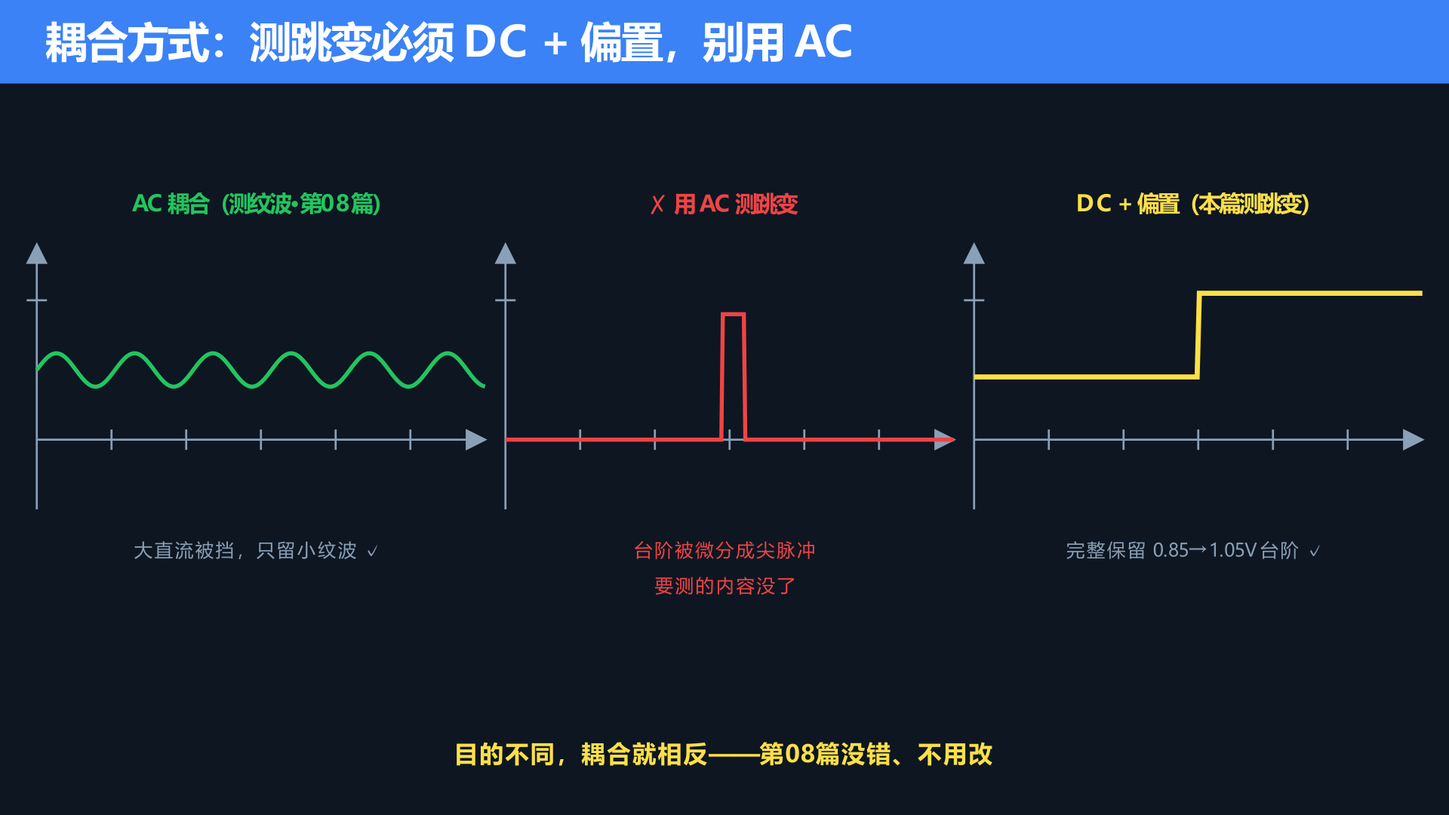
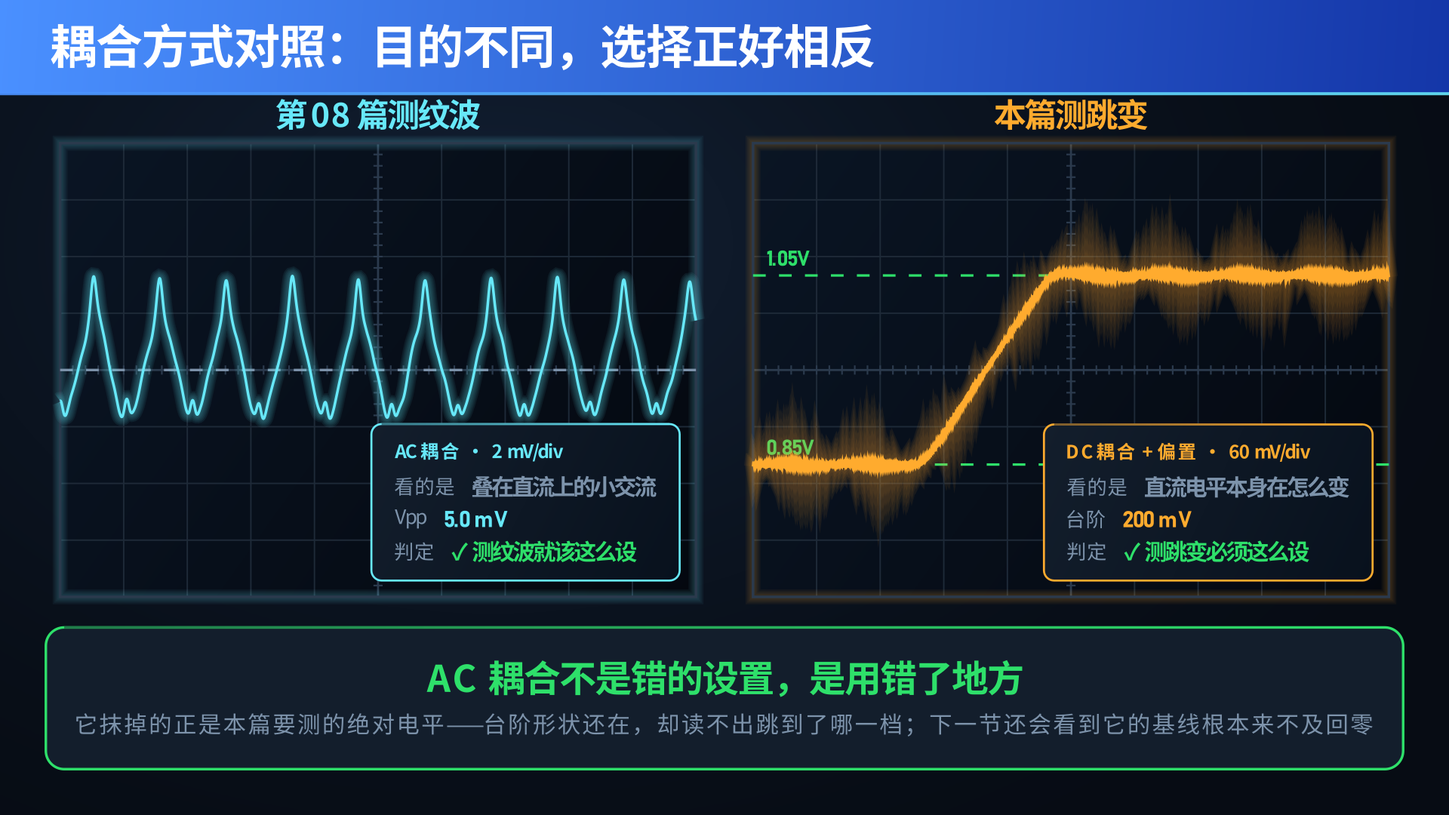
同步 PI深化01：正文改用 24 张 v3 配图，修正 AC 耦合表述
Copilot-Session: 146125e5-149c-4b5e-aded-743cd7f5dc29

Changed region(s): [[0.0, 0.0, 1.0, 0.9472], [0.0938, 0.2139, 0.2812, 0.275], [0.3438, 0.3056, 0.375, 0.3361]]

diff --git a/articles/pi01.md b/articles/pi01.md
@@ -5,7 +5,7 @@ outline: [2,3]
 
 # 同一颗 CPU，核心电压每秒跳几百次——你还按 1.0V±3% 测纹波，测的是一个根本不存在的工作点
 
-<div class="article-meta"><span class="badge">📘 模块二 · 电源完整性 PI · 深化篇 · 动态调压 AVS/DVS</span><span class="badge">⏱ 约 29 分钟</span><span class="badge qr">🔧 含工程师速查</span></div>
+<div class="article-meta"><span class="badge">📘 模块二 · 电源完整性 PI · 深化篇 · 动态调压 AVS/DVS</span><span class="badge">⏱ 约 43 分钟</span><span class="badge qr">🔧 含工程师速查</span></div>
 
 
 一位工程师接手一块笔记本主板，测 CPU 核心轨 **VCORE** 的纹波和精度。他按 datasheet 上写的"**0.85V**"设好判据，示波器一挂，**傻眼了**：这条轨的电压根本不老实待在 0.85V——一会儿窜到 **1.05V**，一会儿又掉到 **0.6V**，来回跳，像心电图。
@@ -24,6 +24,7 @@ outline: [2,3]
 - ✅ 电压**跳变那一下**要测的四件事——**建立时间、过冲/下冲、受控压摆率、逐 OPP 静态精度**，判据怎么定；
 - ✅ 最容易漏的**压频协调时序**——为什么"升频要先加电压、降频要先降频再降电压"，错了就死机；
 - ✅ 怎么测——**轨探头 DC 耦合 + 偏置** 配 **总线命令解码触发**，同屏抓"命令→跳变→稳定"三段（以及为什么这里**不能像测纹波那样用 AC 耦合**）；
+- ✅ **反过来：这条一直在跳的轨上，纹波和噪声还怎么测**——门控窗口、按百分比逐档的判据、20 MHz 限带、AC 耦合基线回不到零、轻载 PFM 纹波反而更大，五道坎逐个拆；
 - ✅ 这套动态调压比普通定压电源，**多出了哪些普通 IC 根本没有的测试项**。
 
 ---
@@ -38,9 +39,13 @@ outline: [2,3]
 - 摸鱼（低频）→ 跳到低 OPP：**低频 + 低电压**，省功耗；
 - 完全空闲 → 更低的档甚至进 retention（保持态）。
 
+![图1a：为什么核心电压必须动起来。动态功耗 P ≈ C·V²·f 三个因子并排，电压 V 被高亮成平方项——同样降一半，频率省一半功耗，电压能省到四分之一](/images/pi01/ill01a_power.png)
+
+![图1b：OPP 工作点是"频率 + 最低够用电压"打包成档。三张档位卡 P-turbo 4.2GHz/1.05V、P-nom 2.4GHz/0.85V、P-idle 0.8GHz/0.60V，右侧给出按 V²·f 折算的相对功耗 100% / 37% / 6%](/images/pi01/ill01b_opp.png)
+
 系统（OS 的 governor / 芯片内的功耗管理）根据负载**每秒切换几百上千次 OPP**。所以 VCORE 在示波器上看就是**一串高低不等的电压台阶，随负载来回跳**——这不是故障，这是它**正常的工作方式**。
 
-![图1：破除"电压是定值"——上排：普通定压电源，VCORE 一条平线 0.85V±3%，测纹波/精度就够；下排：现代 CPU 核心，VCORE 是随负载在 0.6V / 0.85V / 1.05V 等 OPP 档位之间不停跳的阶梯波形，标注"每秒跳几百次"。红框圈出跳变沿，标注"真正要测的是这一下"](/images/pi01/ill01_dynamic.png)
+![图1c：VCORE 的真实样子——示波器上一串随负载来回跳的电压台阶，在 1.05V / 0.85V / 0.60V 三档之间切换，屏内标注每一次跳变沿"真正要测的是这一下"](/images/pi01/ill01c_wave.png)
 
 > **一句话记住：现代 CPU/SoC 核心电压是随频率实时调的动态变量（DVS/AVS），在一串 OPP 档位间每秒跳几百次。拿"一个定值±3%"去测，测的是一个不存在的工作点——真正要测的是"跳变过程"本身。**
 
@@ -66,6 +71,8 @@ outline: [2,3]
 - 接令的是**多相 VRM 控制器**（板上一颗独立芯片，带一堆 DrMOS 功率级），它把 VCORE 调到 CPU 要的电压。
 - SVID 是 **3 线**（SCLK 时钟 / SDATA 数据 / ALERT），开漏，速率不高（**≤ 26.25MHz** 量级），除了发 SetVID 改压，还能用 GetReg 反过来读电流、温度等遥测。
 
+![图3a：x86 调压链——CPU 算好 VID → 经 SVID / SVI 串行总线 → 板上多相 VRM 控制器 → DrMOS 功率级 → VCORE，并标出示波器 CH1 挂电容端测电压、CH2 挂总线抓命令帧的两个探测点](/images/pi01/ill03a_x86.png)
+
 **高通骁龙 PC 平台**：
 - 调压命令走 **SPMI**（System Power Management Interface，MIPI 标准的 **2 线** 总线：SCLK + 双向 SDATA），也可由片内 **RPMh**（Resource Power Manager-hardened，一个硬件资源管理框架）统一下发。
 - 接令并真正把电压调出来的是 **PMIC**（电源管理芯片），由它设 CPU 子系统（APC）的电压。
@@ -73,7 +80,7 @@ outline: [2,3]
 
 两套方案的对照，是本篇最该记住的一张表：
 
-![图3：两平台调压链对照。上路 x86：CPU →(SVID/SVI 串行总线)→ 多相 VRM 控制器 → VCORE；下路 高通骁龙 PC：功耗管理 →(SPMI / RPMh)→ PMIC → APC(CPU)电压。右侧大字标注：命令通道不同，但 PI 关注点完全一致——都要测跳变的建立时间/过冲/压摆率/顺序](/images/pi01/ill03_two_platform.png)
+![图3b：高通骁龙 PC 调压链——功耗管理 / RPMh → SPMI（MIPI 2 线）→ PMIC → APC(CPU) 电压，下方一行列出六项 PI 判据，强调通道和执行芯片都不同，要测的却一模一样](/images/pi01/ill03b_qc.png)
 
 | | x86（Intel / AMD） | 高通骁龙 PC |
 |---|---|---|
@@ -91,13 +98,15 @@ outline: [2,3]
 
 上面说的 DVS 是**开环**的：查一张"频率→电压"表，给一个固定电压。但这张表是**出厂按最差情况定的**——为了保证每一颗芯片、在最高温、最老化的极端条件下都不出错，表里的电压会**多留一截余量**，这截余量叫 **guardband（护带）**。大多数芯片、大多数时候根本用不上这截余量，等于**白白多耗电**。
 
+![图4a：guardband 是怎么白喝掉的。26 颗硅片实测临界电压散布成一片点云，均值 0.791V，而查表电压按最差条件定在 0.920V，中间 129mV 的橙色面积就是 guardband——按 V² 折算等于多耗约 35% 功耗](/images/pi01/ill04a_guardband.png)
+
 **闭环 AVS 就是来省这截余量的。** 以高通的 **CPR** 为例：芯片内部埋了**传感器**（监视关键路径的实际速度），实时测"这块硅片在当前温度/工艺/电压下到底够不够快"，然后**动态地把电压压到刚好够用的最低点**，再经 RPMh 下发给调节器。硅片好、温度低，就少给点；硅片差、温度高，就多给点——**因材施电**，比开环那张"一刀切留足余量"的表省得多。
 
 这里有个特别容易写错、也容易讲反的点，务必记牢：
 
 > ⚠ **CPR / 闭环 AVS 的目标是"给刚好够用的最低电压"，不是"追求最高电压"。** 它是往下压（省电），压到"再压就要出错"的临界点上方一点点为止。
 
-![图4：闭环 AVS(CPR) 原理。左：开环 DVS——查表给固定电压，顶上留一大截 guardband 余量(灰色阴影，标"白耗电")。右：闭环 AVS——片内传感器实时测硅片够不够快，把电压压到"临界点 + 一点点安全裕量"，省掉大部分 guardband(绿色箭头向下"省电")。底部注：目标是最低够用电压，不是最高](/images/pi01/ill04_cpr.png)
+![图4b：闭环 AVS（以高通 CPR 为例）——片内关键路径传感器实时测硅片够不够快 → CPR 控制器 → RPMh → PMIC → APC 电压，并有一条反馈线回到传感器形成闭环；结论标注"目标是把电压往下压到刚好够用，不是往上加"](/images/pi01/ill04b_cpr.png)
 
 ---
 
@@ -107,13 +116,17 @@ outline: [2,3]
 
 **① 电压跳变建立时间（settling time）。** 从收到调压命令、电压开始变，到**稳定进入新电压的容差带内**（业内常用进入 **±2%** 判定），要多久。典型是 **µs 级**。这件事是**生死线**：如果系统要升频，电压却还没稳到高档就把频率拉上去，芯片在"高频 + 不够的电压"下必然算错——**直接死机**。所以建立时间必须**赶在频率切换之前**完成。
 
+![图5a：跳变四件事之一——建立时间。示波器屏上 0.85V→1.05V 一次跳变，标出命令沿、±2% 容差带上下限，以及从命令沿到波形稳定落进容差带的建立时间 21 µs](/images/pi01/ill05a_tset.png)
+
 **② 跳变过冲 / 下冲（overshoot / undershoot）。** 升压时电压容易先冲过头再回落（过冲），降压时容易先掉过头（下冲）。过冲不能越过芯片的**绝对最大电压（abs-max）**，否则会打穿；下冲不能掉破**最低工作电压**，否则同样算错。
+
+![图5b：跳变四件事之二——过冲。同一次跳变用两种压摆率对照：10 mV/µs 过冲 2.5 mV，200 mV/µs 过冲 18.2 mV，摆率快 20 倍过冲大 7 倍，后者已顶到 abs-max 红线](/images/pi01/ill05b_ovs.png)
 
 **③ 受控压摆率（slew rate，V/µs）。** 电压变化的斜率，由 PMIC/VRM 按命令设定。**太快** → 过冲大、冲击应力大；**太慢** → 建立时间不够、误了换频时序。所以它是被"**控制**"的，要验它是否落在设定范围。
 
 **④ 逐 OPP 静态精度。** 每一个电压档，落点准不准。VID/DAC 的步进通常是 **5mV 或 10mV** 一档（如 Intel VR13：5mV 或 10mV/step），要**逐档**验落点，不能只测一个档。
 
-![图5：跳变一下的四个考点(放大一个电压 step)。横轴时间、纵轴电压。标注：①settling time(从命令到进入±2%带)②overshoot(升压顶部尖峰,不得越 abs-max 红线)③slew rate(上升斜率 V/µs)④目标档落点精度(DAC 5/10mV)。左侧竖排"命令沿"](/images/pi01/ill05_step.png)
+![图5c：跳变四件事之三、四——受控压摆率与逐档静态精度。屏上量出实际上升斜率，右侧判据卡列出摆率窗口与各 OPP 档落点精度（VID/DAC 5mV 或 10mV 步进）要逐档验](/images/pi01/ill05c_slew.png)
 
 把这四件事和 OPP 交叉，判据就**从"一行固定限值"变成了一张矩阵**——这是动态调压和普通定压电源在"判据形态"上最根本的区别。下面用一个**自制示例**（零涉密，数值仅示意）把这张矩阵**填满**，让你看清它实际长什么样：
 
@@ -171,26 +184,157 @@ outline: [2,3]
 
 这样一屏下来，你能直接量出：命令下达 → 电压开始动的延迟、建立时间、过冲、落点，全部对齐着看。
 
-![图8：怎么测(混合域同屏)。Ch1 电源轨探头(DC+偏置)测 VCORE 跳变波形；Ch2 数字探头挂 SVID/SPMI 总线，下方解码出命令帧"SetVID 0.85→1.05V"。竖虚线把画面分三段：命令 / 跳变 / 稳定。触发标在命令帧。右上标"带宽≥跳变5×"](/images/pi01/ill08_measure.png)
+![图8a：测法的灵魂——混合域同屏。上屏 CH1 电源轨探头（DC + 偏置）测 VCORE 的 0.85→1.05V 跳变，下屏 CH2 数字通道挂 SVID / SPMI 总线并解码出 SetVID 命令帧，两屏共用同一条时间轴，量出命令帧比电压先动 5.4 µs](/images/pi01/ill08a_mixed.png)
+
+![图8b：触发设在调压命令上，一屏抓下"命令 · 跳变 · 稳定"三段。屏内触发标记落在命令帧，三段用不同颜色色带分开，各段分别标出要读的量](/images/pi01/ill08b_trig.png)
 
 **关键点 2：必须 DC 耦合 + 轨探头偏置——这里千万别用 AC 耦合。**
 
 这点最容易和第 08 篇"测纹波"搞混，务必分清：
 
 - 第 08 篇测**纹波**：VCORE 是个大直流（比如 0.85V）上面叠着几 mV 的小交流。为了把小交流看清，用 **AC 耦合**把那 0.85V 的直流挡掉、放大交流——**08 这么做完全正确**。
-- 本篇测**跳变**：我们要测的**恰恰就是那个直流电平本身在怎么变**（从 0.85V 跳到 1.05V）。如果用 AC 耦合，它那个 ~10Hz 的高通特性会**把要测的直流台阶滤掉**，你看到的不再是一个干净的电压台阶，而是被微分成的尖脉冲——**测的东西全没了**。
+- 本篇测**跳变**：我们要测的**恰恰就是那个直流电平本身在怎么变**（从 0.85V 跳到 1.05V）。如果用 AC 耦合，它那个 ~10Hz 的高通会**把绝对电平整个抹掉**——台阶的形状还在，但你再也读不出它跳到了 0.85V 还是 1.05V，纵轴的零点没了。更糟的是它的时间常数约 **16 ms**，而 OPP 每几十到几百微秒就跳一次，**差了三个数量级**：基线根本来不及回零，屏幕中间那条线不是零电平，是上一次跳变留下的残余漂移，还会随跳变历史一路乱走。
 
 所以本篇必须用 **DC 耦合**，并用**专用有源电源轨探头**加 **DC 偏置**（把 0.85V 这个基准平移到屏幕中间，再用小量程高分辨率看跳变细节）。普通 10:1 无源探头噪声太大，不合格。
 
 > ⚠ **和第 08 篇不矛盾**：08 测"大直流上的小交流"→AC 耦合挡直流；本篇测"直流本身怎么动"→必须 DC 耦合 + 偏置。**目的不同，耦合方式就相反，08 本身没错、不用改。**
 
-![图9：耦合方式对照。左"AC 耦合(测纹波,第08篇)"：大直流被挡掉,只留小纹波,✓适合纹波。右"DC 耦合+轨探头偏置(本篇测跳变)"：完整保留 0.85→1.05V 的电压台阶,✓适合跳变。中间画一个反例:用 AC 耦合测跳变→台阶被微分成尖脉冲,✗"要测的内容被滤掉"](/images/pi01/ill09_coupling.png)
+![图9：耦合方式对照。左屏"AC 耦合（第 08 篇测纹波）"：直流被挡掉，只剩 5.0 mV 小交流，✓ 测纹波就该这么设。右屏"DC 耦合 + 轨探头偏置（本篇测跳变）"：0.85→1.05V 的 200 mV 台阶完整保留，✓ 测跳变必须这么设。结论条：AC 耦合不是错的设置，是用错了地方——它抹掉的正是本篇要测的绝对电平](/images/pi01/ill09_coupling.png)
 
 **测量小抄：** 示波器内置的 **Overshoot** 测过冲、**Settling Time**（进入 ±2%）测建立时间，直接读数；再配总线解码选件（SVID/SVI/SPMI），命令和波形就对齐了。
 
 ---
 
-## 七、和普通电源 IC 比，多出了哪些活
+## 七、反过来问：这条动态轨上，还能测纹波吗？
+
+上一节讲的是**测跳变**。但一条 VCORE 轨交到你手上，验收单上除了跳变，**还有纹波和噪声那一栏**——它不会因为这条轨在跳就自动免测。
+
+于是问题来了：**第 08 篇教的那套测纹波的办法，搬到动态轨上还成立吗？**
+
+答案是：**成立，但前提全变了**。第 08 篇的每一条设置，背后都默认"这条轨的直流电平是不动的"。这个前提一旦被打破，从窗口、判据、耦合到档位，**没有一项能直接照搬**。这一节把这五道坎一次讲清——这也是整个系列里，**稳态电源测试和动态电源测试差别最大的地方**。
+
+### 第一道坎：纹波的定义前提没了，必须先门控
+
+纹波的定义是"**输出直流电平上叠加的周期性交流分量**"。注意这个定义里藏着一句话：**得先有一个稳定的直流电平**，才谈得上"叠加在它上面的东西"。
+
+动态轨上没有这个前提。你把光标一拉、示波器 Vpp 一读，读到的是什么？
+
+**是那 200 mV 的 OPP 跳变幅度。** 纹波才几个 mV，被跳变整整压过一个数量级——测量窗口只要跨过一次跳变，读数就完全由跳变主导，跟纹波一点关系都没有。
+
+![图11：同一条动态轨，测量窗口放在不同位置。主屏全景 50mV/div，一次 0.85V→1.05V 跳变；窗口 A 跨了跳变段、窗口 B 落在 OPP 驻留段；两个放大小屏分别给出读数，差一个数量级](/images/pi01/ill11_ripple_window.png)
+
+所以动态轨测纹波的**第一条纪律**是：**先把测量窗口门控（gating）到单个 OPP 的驻留段里，再谈判据。**
+
+具体做法：
+
+- 用**总线命令解码**或电压边沿定位每一次跳变，把统计窗口设在**两次跳变之间的平台段**；
+- 窗口还要**避开建立过程**——跳变后的过冲和振铃属于"过冲/建立时间"的判据，**不能算进纹波**。稳妥的做法是从建立完成时刻再往后退一段，才开始统计；
+- 示波器上用**门控测量（gated measurement）**或分段存储，别用全屏 Vpp。
+
+> ⚠ **这一条不做，后面全白搭。** 跳变过冲被算进纹波统计，结果必然是"纹波严重超标"——然后你会去查一个根本不存在的电源问题。
+
+![图11b：门控规则示意。同一条动态轨上，跳变沿与建立过程所在的区间标成红色"不能统计"，两次跳变之间、且已退过建立过程的平台段标成绿色"才能统计"——统计窗口只准落在绿窗里](/images/pi01/ill12a_pct_rule.png)
+
+### 第二道坎：判据是百分比，低电压档反而最难过
+
+稳态轨的纹波判据常写成一个固定值，比如"≤ 20 mV"。动态轨不行——**同一条轨有好几个目标电压**，一个固定 mV 值套上去，各档的严格程度完全不同：
+
+- 20 mV 落在 **1.05V** 档上，是 **1.9%**；
+- 同样 20 mV 落在 **0.60V** 档上，就成了 **3.3%**。
+
+所以动态轨的纹波判据必须**按百分比逐档写**。而这里有个真正反直觉的地方——把一块典型的 6 相 VCORE VR（12V 输入、800 kHz、0.15 µH、2000 µF、1.2 mΩ ESR）逐档算一遍：
+
+| OPP 档 | 占空比 D | 电感电流纹波 ΔI_L | 实测 Vpp | **占标称电压** |
+|---|---|---|---|---|
+| 1.05 V | 0.0875 | 7.98 A | 5.0 mV | **0.475%** |
+| 0.85 V | 0.0708 | 6.58 A | 4.9 mV | **0.575%** |
+| 0.60 V | 0.0500 | 4.75 A | 4.2 mV | **0.700%** |
+
+看出来了吗：**绝对值几乎没变（5.0 → 4.2 mV），百分比却一路涨到 1.5 倍。** 硬件一点没动，只是电压档降下来了，纹波指标就自动变严。
+
+![图11c：三档纹波逐档对照条形图。1.05V 档 5.0 mV 占 0.475%、0.85V 档 4.9 mV 占 0.575%、0.60V 档 4.2 mV 占 0.700%——绝对值一路降，百分比却一路升，低电压档才是最难过的一关](/images/pi01/ill12b_pct_table.png)
+
+背后有两股力量在打架：电压降低 → 占空比 D 变小 → 电感电流纹波 ΔI_L 确实变小了；**但多相交错的抵消效果同时也在变差**（这块板 6 相的抵消系数 K 从 1.05V 档的 0.52 一路劣化到 0.60V 档的 0.74）。两者一抵，绝对纹波基本没降，而分母却小了不少。
+
+> **一句话记住：动态轨的纹波判据要按百分比逐档写，而且低电压档最难过——绝对纹波降不下去，分母却变小了。只测最高档就签字，等于把最难的一关跳过去了。**
+
+### 第三道坎：设置本身就在改读数
+
+这一坎稳态轨上也有，但动态轨上后果更严重——因为动态轨的纹波本来就小、余量本来就紧。
+
+VCORE 这种低压大电流轨，输出端除了开关纹波，还耦合着**开关节点打过来的高频尖峰**。这些尖峰频率在几十上百 MHz，**它不是纹波**，可它照样进你的 Vpp 读数。
+
+同一条波形，探头全带宽读一次、按标准打开 **20 MHz 限带**再读一次：
+
+![图12：同一条纹波波形，上屏全带宽 500MHz 读 18.7mV 判超标，下屏 20MHz 限带读 5.0mV 判合格，读数差 3.7 倍](/images/pi01/ill12_bw_limit.png)
+
+**18.7 mV 判超标，5.0 mV 判合格——同一块板，同一条波形，差 3.7 倍。**
+
+所以纹波测试的标准动作不是可选项：**AC 耦合 + 20 MHz 限带 + 短接地弹簧（别用长地线）**。这套动作不是为了让波形好看，是为了让**不同的人、不同的仪器，测同一块板子能得到可比的数字**。少做一样，你测出来的就是自己的设置，不是板子的性能。
+
+### 第四道坎：AC 耦合在动态轨上会骗你
+
+第 08 篇测纹波用 AC 耦合，天经地义——挡掉大直流，才好放大那几 mV。可搬到动态轨上，这一手会出事。
+
+示波器的 AC 耦合是个**约 10 Hz 的一阶高通**。算一下它的时间常数：
+
+**τ = 1 / (2π × 10 Hz) ≈ 16 ms**
+
+也就是说，被一个 200 mV 的电压台阶激励之后，基线要**大约 3τ ≈ 48 ms** 才能重新回到零。
+
+再看动态轨的节奏：OPP 切换是**几十到几百微秒**一次量级。
+
+**两个数字差了三个数量级。** 结论很硬：**在快速 DVFS 的轨上，AC 耦合的基线根本没机会回到零**——它一直挂在上一次跳变留下的漂移上晃。你以为屏幕中间那条线是零电平，其实那是残余的漂移，测出来的 Vpp 里混着它。
+
+![图12b：AC 耦合的恢复比 OPP 跳变慢三个数量级。屏上画出被一连串 OPP 跳变激励后的 AC 耦合基线：τ 约 16 ms、要 3τ 约 48 ms 才回零，而 OPP 每几百微秒就跳一次，基线一路被抬着走，从来没回到过零线](/images/pi01/ill12c_ac_tau.png)
+
+怎么办，三条路：
+
+1. **DC 耦合 + 轨探头偏置 + 小量程**（最稳）：直流被偏置抵消掉，没有高通，也就没有恢复问题；
+2. **仍用 AC 耦合，但把系统停在单一 OPP 上**（用 governor 锁频锁压），等基线彻底稳下来再测——这时它其实已经退化成一条稳态轨了；
+3. 硬要在跳变间隙里测，就必须**确认窗口起点离上一次跳变足够远**——按上面的数量级，这个条件在快速 DVFS 下基本满足不了。
+
+> ⚠ **第 08 篇没错，是前提变了。** 08 篇的 AC 耦合默认"直流不动"；动态轨上直流一直在动，这个默认就失效了。
+
+### 第五道坎：最反直觉的一条——轻载时纹波反而更大
+
+前面算过：低电压档的百分比判据最严。而低 OPP 档同时还意味着**负载电流也小**。这两件事凑到一起，会撞上一个让很多人翻车的现象。
+
+轻载时，为了保效率，VR 会**关掉大部分相、并从 PWM 连续导通切到 PFM / 跳周期（pulse-skipping）模式**。这时输出波形完全变了样：
+
+- 不再是规则的三角波，而是**一串脉冲之后长时间静默**，静默期间电压缓慢下垂；
+- 纹波的**频率不再固定**，随负载漂移，你的自动化脚本按 4.8 MHz 去找周期会找不到；
+- **峰峰值不降反升**——常见比重载时大上 2~4 倍。
+
+![图13：重载 CCM 与轻载 PFM 的波形对照。左：规则三角波，频率固定，峰峰值小；右：间歇脉冲群 + 静默期下垂，频率漂移，峰峰值反而更大](/images/pi01/ill13_pfm.png)
+
+还有一点要说清楚：**PFM 下的纹波幅度算不出来。** 重载 CCM 的纹波可以拿 LC 和 ESR 推（上面那张表就是这么来的），但 PFM 的纹波主要由**控制器的迟滞窗口**决定——那是芯片内部的设计参数，不在你的物料表上。**只能测。**
+
+于是低 OPP 档成了双重夹击：**百分比判据最严的那一档，恰好也是纹波形态最恶劣的那一档。** 只在满载高频档测纹波然后签字，漏掉的正是最容易出问题的工况。
+
+> **测试上的动作：纹波必须"每个 OPP × 轻载/重载"两维覆盖**，至少要补上"低 OPP + 轻载"这一格。
+
+### 一张表收尾：同一条轨，两套互斥的设置
+
+第六节测跳变、这一节测纹波，都在同一条 VCORE 上，但**设置几乎每一项都相反**——它们没法同时满足，只能分两轮测：
+
+![图14：同一条 VCORE 轨的两套测量设置对照，耦合、带宽、档位、时基、触发、统计窗口六项逐项相反](/images/pi01/ill14_two_setups.png)
+
+| 项 | 测**跳变**（第六节） | 测**纹波**（本节） |
+|---|---|---|
+| 耦合 | **DC + 轨探头偏置** | AC（稳态段）或 **DC + 偏置**（动态轨推荐） |
+| 带宽 | **全带宽**（≥ 跳变速度 5×） | **限带 20 MHz** |
+| 垂直档位 | 大档位，装得下 200 mV 台阶 | **小档位**，看得见几 mV |
+| 时基 | 宽（µs ~ 数十 µs/div） | **窄**（ns ~ 百 ns/div） |
+| 触发 | **总线调压命令帧** | 自由触发 / 开关频率 |
+| 统计窗口 | **对准跳变段** | **门控到驻留段，排除跳变与建立过程** |
+| 判据 | 过冲、建立时间、压摆率（绝对值） | **纹波百分比，逐 OPP** |
+
+> **一句话记住：同一条动态轨，测跳变和测纹波是两套互斥的设置——耦合、带宽、档位、时基、触发、统计窗口六项全反。想一次测完，两样都测不准。**
+
+---
+
+## 八、和普通电源 IC 比，多出了哪些活
 
 把动态调压和普通定压电源 IC（定压 DCDC/LDO，即正篇讲的那些）摆一起，你会发现它**打破了普通电源测试的一个默认假设**：电压是定值。假设一破，测试项、判据形态、仪器、失效模式全变了：
 
@@ -213,7 +357,7 @@ outline: [2,3]
 
 ---
 
-## 八、把一条动态轨的测试用例写出来（模板 + 实例）
+## 九、把一条动态轨的测试用例写出来（模板 + 实例）
 
 道理讲完，落到活儿上——**拿到一条 DVS 轨（比如 VCORE），怎么把它的测试用例写出来？** 给你一套可以直接套的流程和模板，这也是这一篇最该带走的东西。
 
@@ -234,6 +378,8 @@ outline: [2,3]
 | DVS-04 | 受控压摆率 | 触发一次跳变 | 轨探头，测斜率 | 落在 PMIC/VRM 设定带 |
 | DVS-05 | 压频协调时序 | 跑真实负载让系统自动切档 | 轨探头 + 总线解码 + 频率标志 | 升频先加压、降频先降频，顺序/间隔正确 |
 | DVS-06 | 遥测交叉核对（选做） | GetReg 读回电压/电流 | 总线解码 | 遥测值与实测一致 |
+| **DVS-07** | **逐 OPP 纹波（重载）** | 锁在每一档，加满载 | 轨探头，**AC/DC + 20MHz 限带**，**门控到驻留段** | **各档纹波百分比达标**（低档最严） |
+| **DVS-08** | **低 OPP + 轻载纹波（PFM）** | 锁最低档，卸载到轻载 | 同上，时基放宽以容纳脉冲群周期 | 峰峰值达标；**记录 PFM 形态与突发周期** |
 
 **第三步：确定接法和触发。** 电压轨探头 **DC 耦合 + 偏置**，数字探头挂调压总线开**解码**，**触发在总线调压命令**上；用可编程手段（cpufreq governor / 压测 / 厂商工具）**强制切 OPP** 制造跳变。
 
@@ -251,11 +397,16 @@ outline: [2,3]
 
 ---
 
-## 九、常见坑
+## 十、常见坑
 
 - **拿定压思路测动态轨**：把跳来跳去的 VCORE 当成"电源不稳/故障"，其实是它正常在跳 OPP。先搞清这条轨是不是 DVS 轨。
 - **只测一个电压档**：动态轨要**逐 OPP** 测过冲/建立时间/精度，只测一个档等于漏测大半。
-- **用 AC 耦合测跳变**：直流台阶被高通滤成尖脉冲，测的东西全没了（详见第六节，和第 08 篇目的不同）。
+- **用 AC 耦合测跳变**：绝对电平被整个抹掉，基线还会随跳变历史漂移，落点电压无从判读（详见第六节，和第 08 篇目的不同）。
+- **动态轨上直接读全屏 Vpp 当纹波**：读到的是 200 mV 的 OPP 跳变幅度，不是纹波。**必须先门控到单个 OPP 驻留段**，还要排除跳变后的建立过程（第七节）。
+- **纹波判据写成一个固定 mV 值**：动态轨要**按百分比逐档**写。同样 20 mV，在 1.05V 是 1.9%、在 0.6V 就是 3.3%——**低电压档最难过**，只测最高档等于跳过最难的一关。
+- **不开 20 MHz 限带就读纹波**：读到的是开关节点耦合来的高频尖峰。同一条波形限带前后能差 3~4 倍，直接决定判超标还是判合格。
+- **在快速 DVFS 的轨上用 AC 耦合测纹波**：AC 耦合 τ ≈ 16 ms，而 OPP 几十微秒就跳一次，**基线永远回不到零**，屏幕中间那条线不是零电平。
+- **纹波只测重载**：轻载会切到 PFM/跳周期，峰峰值不降反升、频率还漂移。**低 OPP + 轻载**这一格恰恰是最恶劣的工况。
 - **不解码总线、只看波形**：不知道命令什么时候下的，就量不准"命令→跳变"的延迟，也验不了压频顺序。
 - **建立时间只看"到了没"，不看"赶没赶上换频"**：稳定进容差带的时刻，必须早于频率切换的时刻，否则高频欠压死机。
 - **精度探错点**：有远端感测的轨，探电感输出端会把线阻压降算进去——**要探感测点/负载端**。
@@ -267,7 +418,7 @@ outline: [2,3]
 
 ## 一句话总结
 
-现代 CPU/SoC 的核心电压不是定值，而是**随频率实时跳变的动态变量**（DVS 按表调、AVS 闭环给最低够用电压省 guardband）；x86 用 **SVID/SVI 命令多相 VRM**、高通骁龙 PC 用 **SPMI/RPMh 命令 PMIC**——命令通道不同，PI 该测的**完全一致**。真正要测的是**跳变过程本身**：逐 OPP 的**建立时间、过冲/下冲、受控压摆率、静态精度**，外加**压频协调时序**（升频先加压、降频先降频后降压，错了就死机）。测法上要**混合域**看——**轨探头 DC 耦合 + 偏置**抓电压台阶、**总线解码触发**对齐命令，同屏拿下"命令→跳变→稳定"。**别用 AC 耦合**（那是测纹波的，会把要测的台阶滤没）。相比普通定压电源，判据从"一行限值"升级成"OPP×测试项矩阵"，多出一整套普通 IC 没有的动态测试项。
+现代 CPU/SoC 的核心电压不是定值，而是**随频率实时跳变的动态变量**（DVS 按表调、AVS 闭环给最低够用电压省 guardband）；x86 用 **SVID/SVI 命令多相 VRM**、高通骁龙 PC 用 **SPMI/RPMh 命令 PMIC**——命令通道不同，PI 该测的**完全一致**。真正要测的是**跳变过程本身**：逐 OPP 的**建立时间、过冲/下冲、受控压摆率、静态精度**，外加**压频协调时序**（升频先加压、降频先降频后降压，错了就死机）。测法上要**混合域**看——**轨探头 DC 耦合 + 偏置**抓电压台阶、**总线解码触发**对齐命令，同屏拿下"命令→跳变→稳定"。**别用 AC 耦合**（那是测纹波的，会把要测的台阶滤没）。反过来，这条轨上**测纹波也全变了样**：全屏 Vpp 读到的是跳变幅度而非纹波，**必须门控到单个 OPP 驻留段**；判据要**按百分比逐档写**，而且**低电压档最难过**（绝对纹波降不下去，分母却变小了）；不开 **20 MHz 限带**读数能差 3~4 倍；AC 耦合的 **τ≈16 ms** 在几十微秒就跳一次的轨上**基线永远回不到零**；轻载切 **PFM** 后峰峰值**不降反升**——测跳变和测纹波，是同一条轨上**六项设置全反**的两套方案，只能分两轮做。相比普通定压电源，判据从"一行限值"升级成"OPP×测试项矩阵"，多出一整套普通 IC 没有的动态测试项。
 
 ---
 
@@ -313,7 +464,7 @@ outline: [2,3]
 | 项 | 设置 |
 |---|---|
 | Ch1 电压轨 | **专用有源电源轨探头**，1:1、1GHz+、含 20MHz 限带、**±60V 偏置**、低噪底 |
-| 耦合 | **DC 耦合 + 偏置**（⚠ 不能用 AC，会把电压台阶滤成尖脉冲） |
+| 耦合 | **DC 耦合 + 偏置**（⚠ 不能用 AC，绝对电平会丢、基线会随跳变历史漂） |
 | Ch2 总线 | 数字探头 + **SVID/SVI/SPMI 解码选件** |
 | 触发 | **总线调压命令** 或 电压跳变边沿；单次/正常触发 |
 | 带宽 | ≥ 跳变速度 5×；看跳变开全带宽，对齐纹波标准时用 20MHz 限带 |
@@ -330,8 +481,44 @@ outline: [2,3]
 | DVS-04 | 受控压摆率 | 触发跳变 | 落在设定带 |
 | DVS-05 | 压频协调时序 | 真实负载自动切档 | 升频先加压、降频先降频 |
 | DVS-06 | 遥测交叉核对（选做） | GetReg 读回 | 遥测≈实测 |
+| **DVS-07** | **逐 OPP 纹波（重载）** | 锁每档 + 满载 | **纹波百分比逐档达标**（低档最严） |
+| **DVS-08** | **低 OPP + 轻载纹波（PFM）** | 锁最低档 + 卸载 | 峰峰值达标；记录 PFM 形态与突发周期 |
 
 **接法通则**：轨探头 DC+偏置探**远端感测点**、数字探头挂总线开解码、触发总线命令、软件强制切 OPP。
+
+### ⭐动态轨测纹波：五道坎（本篇新增）
+
+| 坎 | 稳态轨（第 08 篇） | 动态轨 | 动作 |
+|---|---|---|---|
+| ① 定义前提 | 直流稳定，直接读 Vpp | 全屏 Vpp 读到的是 200mV **跳变幅度** | **门控到单个 OPP 驻留段**，并排除建立过程 |
+| ② 判据形态 | 一个固定 mV 值 | 多个目标电压，固定值不等价 | **按百分比逐档写**；20mV @1.05V=1.9%、@0.6V=3.3% |
+| ③ 测量设置 | 限带影响同样存在 | 余量更紧，后果更严重 | **AC + 20MHz 限带 + 短地弹簧**；不限带读数可差 3~4 倍 |
+| ④ 耦合 | AC 耦合天经地义 | AC 耦合 **τ≈16ms**，OPP 几十 µs 跳一次 | 基线**永远回不到零** → 改 **DC+偏置**，或锁死单一 OPP 再测 |
+| ⑤ 工况覆盖 | 满载测一次即可 | 轻载切 **PFM/跳周期**，Vpp **不降反升** 2~4 倍、频率漂移 | **每 OPP × 轻载/重载** 两维覆盖，必补"低 OPP+轻载" |
+
+**逐档纹波百分比示例**（12V 输入 / 6 相 / 800kHz / 0.15µH / 2000µF / 1.2mΩ）：
+
+| OPP | D | ΔI_L | Vpp | 占标称 |
+|---|---|---|---|---|
+| 1.05 V | 0.0875 | 7.98 A | 5.0 mV | **0.475%** |
+| 0.85 V | 0.0708 | 6.58 A | 4.9 mV | **0.575%** |
+| 0.60 V | 0.0500 | 4.75 A | 4.2 mV | **0.700%** |
+
+> 绝对值几乎不变，百分比涨 1.5 倍 —— 多相抵消系数 K 随 D 减小而劣化（0.52→0.74），把 ΔI_L 的下降抵消掉了。**低压档最难过。**
+> ⚠ **PFM 下的纹波算不出来**：幅度由控制器迟滞窗口决定，不在物料表上，**只能测**。
+
+### ⭐同一条轨，测跳变 vs 测纹波（六项全反）
+
+| 项 | 测跳变 | 测纹波 |
+|---|---|---|
+| 耦合 | **DC + 偏置** | AC（稳态段）/ DC+偏置（动态轨推荐） |
+| 带宽 | **全带宽**（≥跳变 5×） | **20 MHz 限带** |
+| 垂直档位 | 大档（装下 200mV 台阶） | **小档**（看见几 mV） |
+| 时基 | 宽（µs~数十 µs/div） | **窄**（ns~百 ns/div） |
+| 触发 | **总线命令帧** | 自由 / 开关频率 |
+| 统计窗口 | **对准跳变段** | **门控驻留段**，排除跳变与建立 |
+
+**两套设置互斥，只能分两轮测。**
 
 ### vs 普通电源 IC（增量清单）
 
@@ -351,6 +538,9 @@ outline: [2,3]
 - 建立时间只看"到没到"、不看"赶没赶上换频"
 - 把 CPR 理解成"追最高电压"（实为压到最低够用）
 - SVID/SVI/SPMI/AVSBus 混淆；软件不配合→测了个假静态
+- **动态轨直接读全屏 Vpp 当纹波**（读到的是跳变幅度）；**纹波判据写成固定 mV**（应按百分比逐档）
+- **不开 20MHz 限带**（读到的是开关尖峰）；**快速 DVFS 下用 AC 耦合**（τ≈16ms，基线回不到零）
+- **纹波只测重载**（漏掉 PFM 下峰峰值反而更大的低 OPP 轻载工况）
 
 ### 合规提示（自用）
 

diff --git a/index.md b/index.md
@@ -36,9 +36,9 @@ hero:
 
 ## 🆕 最新更新
 
+- [pi01 · 同一颗 CPU，核心电压每秒跳几百次——你还按 1.0V±3% 测纹波，测的是一个根本不存在的工作点](/articles/pi01) 🔧
 - [36 · 一条走线好好的，眼图却塌了——TDR 怎么像"给走线做 B 超"，一眼揪出坏在第几厘米？](/articles/36) 🔧
 - [35 · 一致性测试到底是什么：为什么你的 USB、HDMI 口敢说"能和全世界的设备互通"？](/articles/35) 🔧
 - [37 · 同样一个 USB 口，插 U 盘飞快、插移动硬盘却掉速——USB 2.0 的 480M 到底靠什么保证？一张眼图模板，判它"过没过"](/articles/37) 🔧
 - [q02 · USB、HDMI、DP、MIPI、PCIe……这些接口到底是什么、怎么分、谁看眼图谁看协议？——模块六「串行高速接口全景地图」](/articles/q02) 🔧
 - [50 · 串口收回来全是乱码、9600 能通 115200 就乱、TX/RX 接反啥都收不到——UART：连时钟线都省了的异步串口，测的是波特率误差、帧格式、采样点和协议解码，判据在两端约定不在总线规范也不在眼图](/articles/50) 🔧
-- [49 · SPI 读出来全是乱码、错开一位、慢速跑得好一提速就错、换个模式又对了——SPI 总线：全双工、推挽、片选、更快，测的是边沿信号完整性、setup/hold 时序、CPOL/CPHA 模式和协议解码，判据看器件手册不是统一规范表](/articles/49) 🔧
